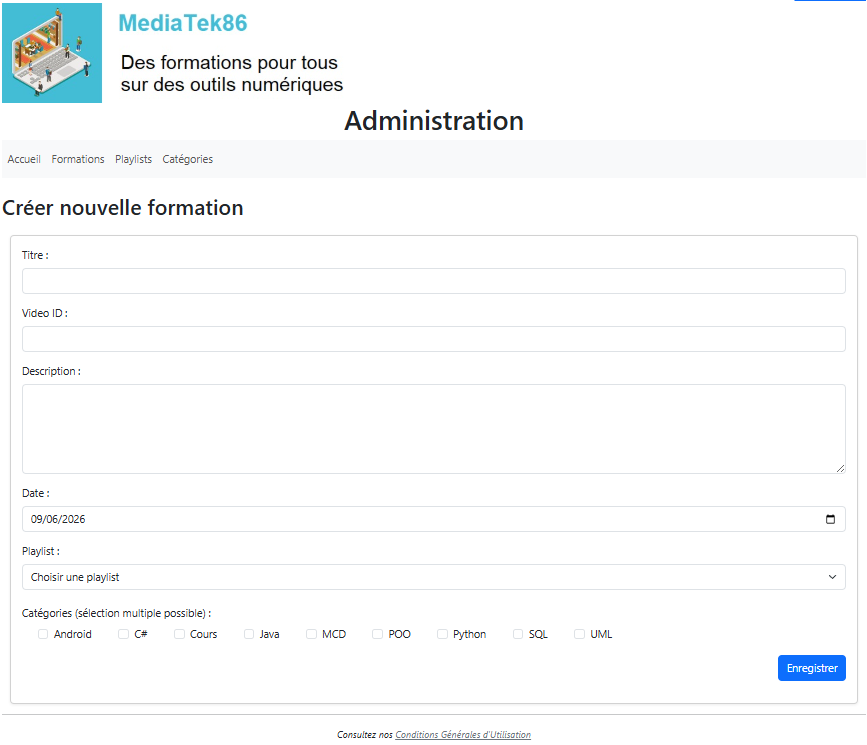
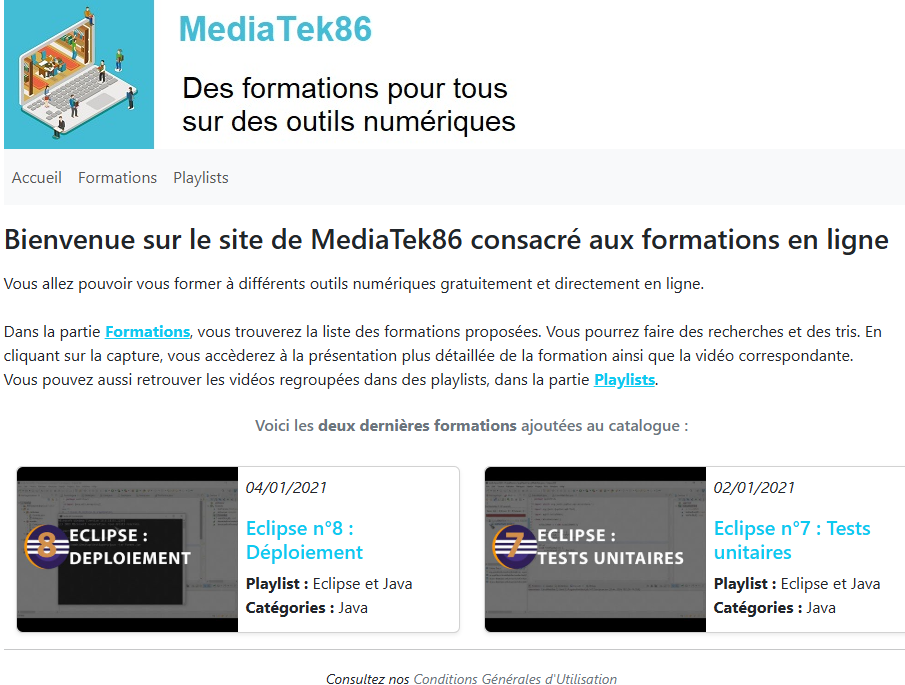
ajout d'un screenshot de l'homepage E6-1

diff --git a/content/E6/symfony/index.md b/content/E6/symfony/index.md
@@ -9,7 +9,7 @@ draft: false
 
 # Mediatek Formation
 
-![Capture d'écran de l'application Symfony Mediatek Formation](featured.png "Capture d'écran du formulaire de création de formation")
+![Capture d'écran de l'application Symfony Mediatek Formation](featured.png "Homepage Mediatek Formation")
 
 ## Liens
 
@@ -39,6 +39,9 @@ Les évolutions apportées au code permettent désormais :
 * de gérer les formations, les playlists et les catégories
 * d’ajouter une authentification administrateur
 * de mettre en place des tests, une documentation et un déploiement continu
+
+![Capture d'écran de l'application Symfony Mediatek Formation](formulaire-new-formation.png "Formulaire de création de formation")
+
 
 ---
 
